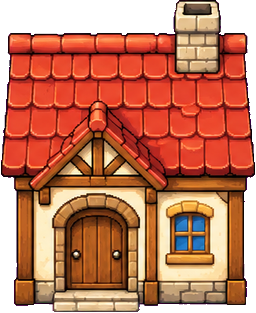
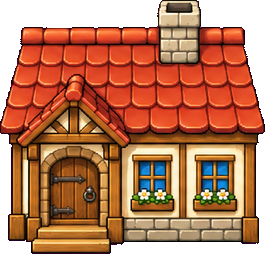
1.36: the new house outside in three steps (porch door on the left, forward block, extension wing, upper storey with balcony), door on the old path, door outline refitted

diff --git a/test_136_house.js b/test_136_house.js
@@ -1,0 +1,20 @@
+// test_136_house.js — รุ่น 1.36: บ้านด้านนอกแบบใหม่ 3 ขั้น · ประตูตรงทางเดิน · แตะประตูเข้าบ้านได้ทุกขั้น · ไม่มีของทับบ้าน · PORT=... CHROME_EXE=...
+const p=require('/home/claude/.npm-global/lib/node_modules/@mermaid-js/mermaid-cli/node_modules/puppeteer');
+(async()=>{const b=await p.launch({executablePath:process.env.CHROME_EXE||'/home/claude/.cache/puppeteer/chrome/linux-131.0.6778.204/chrome-linux64/chrome',args:['--no-sandbox']});
+const pg=await b.newPage();await pg.setViewport({width:1100,height:620,isMobile:true,hasTouch:true,deviceScaleFactor:1});const errs=[];pg.on('pageerror',e=>errs.push(e.message));
+await pg.goto('http://localhost:'+(process.env.PORT||8775)+'/?gm',{waitUntil:'load'});await pg.evaluate(()=>localStorage.clear());await pg.reload({waitUntil:'load'});await new Promise(r=>setTimeout(r,6000));
+const out={};
+out.setup=await pg.evaluate(async()=>{const sleep=ms=>new Promise(r=>setTimeout(r,ms));gmMakeSlot();const d=Store.all();S=d.slots[d.cur];startGame();await sleep(1500);document.querySelectorAll('#cr,#title,#picker').forEach(e=>e.classList.add('hide'));fpsChecks=6;GM.hour=10;window._clear=async()=>{try{closeModal()}catch(e){}try{for(let i=0;i<12&&DLG;i++){if(typeof dlgNext==='function')dlgNext();else DLG=null;await sleep(130)}}catch(e){}DLG=null;PAUSE=false;HOLD=null};return{version:VERSION}});
+for(const lv of [1,2,3]){
+ const r=await pg.evaluate(async lv=>{const sleep=ms=>new Promise(r=>setTimeout(r,ms));const h=HOME.get();h.lv=lv;if(h.house)h.house.lv=lv;HOME.put(h);delete CACHE.farm;goMap('farm');await sleep(1300);await window._clear();document.querySelectorAll('#hud,#dlg,#act').forEach(e=>e.classList.add('hide'));
+  const ho=M.objs.find(q=>q.farmHouse),[x0,y0,x1]=G9.houseBox[ho.tier];const o={levelAsked:lv,tier:ho.tier,picture:ho.img,size:[ho.sw,ho.sh],left:Math.round(ho.x-ho.sw/2),right:Math.round(ho.x+ho.sw/2),foot:Math.round(ho.y)};
+  o.doorOnPath=Math.round(G9.door[0]*T);   // the door leaf centre is at this x by construction; check the picture's steps really sit there
+  const im=IMG[ho.img],c=document.createElement('canvas');c.width=im.width;c.height=im.height;const g=c.getContext('2d');g.drawImage(im,0,0);const row=g.getImageData(0,im.height-4,im.width,1).data;let a=-1,bb=-1;for(let x=0;x<im.width;x++)if(row[x*4+3]>0){if(a<0)a=x;bb=x}o.stepsMiddleAtX=Math.round(ho.x-ho.sw/2+(a+bb)/2);
+  // nothing that stands in the scene may have its foot inside the house box
+  o.thingsInsideHouse=M.objs.filter(q=>q.g9b&&q.x>x0*T+6&&q.x<x1*T-6&&q.y>y0*T&&q.y<G9.houseBase*T-4).length;
+  const sh=M.objs[G9B.tapInst.shed];o.gapToShedPx=Math.round((sh.x-sh.sw/2)-(ho.x+ho.sw/2));
+  P.x=G9.door[0]*T+70;P.y=(G9.door[1]+3.4)*T;P.path=null;P.act=null;await sleep(1400);const cv=document.getElementById('c'),rc=cv.getBoundingClientRect(),dpr=devicePixelRatio||1;o.tap=[((G9.door[0]*T)-camX)*SC/dpr+rc.left,((G9.houseBase*T-60)-camY)*SC/dpr+rc.top];return o},lv);
+ await pg.screenshot({path:'hs_'+lv+'.png'});
+ await pg.touchscreen.tap(r.tap[0],r.tap[1]);let inside=null;for(let k=0;k<28&&!inside;k++){await new Promise(q=>setTimeout(q,250));inside=await pg.evaluate(()=>(M.kind==='room'||/^room/.test(M.id))?M.id:null)}
+ r.tapDoorEnters=inside;delete r.tap;out['level'+lv]=r}
+console.log(JSON.stringify(out));console.log('errors',errs.length,errs.slice(0,4));await b.close()})();

diff --git a/sw.js b/sw.js
@@ -1,5 +1,5 @@
-// Lantern Academy 1.35 · Leah-PP service worker: network first (always newest when online), cache as backup when offline.
-const CACHE='lantern-v112';
+// Lantern Academy 1.36 · Leah-PP service worker: network first (always newest when online), cache as backup when offline.
+const CACHE='lantern-v113';
 const FILES=['./','index.html','manifest.json','questions-index.json','q-math-6.json','q-math-7.json','q-math-8.json','q-english-6.json','q-english-7.json','q-english-8.json','q-thai-6.json','q-thai-7.json','q-thai-8.json','q-chinese-6.json','q-chinese-7.json','q-chinese-8.json','q-general-6.json','q-general-7.json','q-general-8.json','leah-walk.png','leah-idle.png','dad-idle.png','mom-idle.png','peb-idle.png','nuan-idle.png','cave-floor.jpg','cave-wall.jpg','tiles-cave.png','tiles-village.png','tiles-hedge.png','obj-fountain.png','props-village.png','props-cave.png','props-dungeon.png','buildings-village.png','tiles-house.png','furniture.png','play.html','kid-curly2-idle.png','kid-curly2-stand.png','kid-curly2-walk.png','play.webmanifest','firebase-config.js','tiles-cliff.png','tiles-water.png','tiles-cobble.png','props-mountain.png','props-farm.png','obj-lightstone.png','obj-lightstone-plaza.png','obj-cave-crystal.png','obj-rockfall.png','obj-bridge-rope.png','obj-bridge-stone.png','obj-pier.png','obj-fountain-big.png','obj-fountain-old.png','capital-greybox.png','bld-academy.png','bld-lanna-house.png','bld-lanna-house2.png','bld-market-stall.png','obj-lantern-shrine.png','obj-bridge-arch.png','obj-stairs-stone.png','obj-pier-teak.png','kid-braids-idle.png','kid-braids-stand.png','kid-braids-walk.png','kid-ponytail-idle.png','kid-ponytail-stand.png','kid-ponytail-walk.png','kid-bob-idle.png','kid-bob-stand.png','kid-bob-walk.png','kid-curly-idle.png','kid-curly-stand.png','kid-curly-walk.png','kid-blond-idle.png','kid-blond-stand.png','kid-blond-walk.png','kid-spiky-idle.png','kid-spiky-stand.png','kid-spiky-walk.png','icon-192.png','icon-512.png','icon-maskable-512.png','apple-touch-icon.png','favicon-32.png','logo.png','title-art.jpg','farm-greybox.png','map-capital-a.jpg','obj-fountain-capa.png','map-capital-royal.jpg','obj-statue-capital.png','signs-capital.png','map-royal-plaza.jpg','signs-royal-plaza.png','map-cave-mouth.jpg','hunt-SW.jpg','hunt-NW.jpg','hunt-NE.jpg','hunt-SE.jpg','mon-slime.png','mon-bat.png','mon-mushbug.png','mon-golem.png','icons-drops.png','card-front.png','card-back.png','kit-town-buildings.png','kit-town-nature.png','kit-town.png','kit-town.json','tiles-town-meadow.png','tiles-town-water.png','portraits-town.png','crystal-paplern.png','stamps.png','farm-house-1.png','farm-house-2.png','farm-house-3.png','map-G9-home-farm.jpg','map-H9-village.jpg','objects-1.png','map-G9b-ground.jpg','g9b-sprites.png','g9b-plants.png','g9b-scene.json','farm-art.png','farm-art2.png','robot-walk.png','ui-icons.png','bgm-farm.mp3','bgm-farm-night.mp3'];
 self.addEventListener('install',e=>{self.skipWaiting();e.waitUntil(caches.open(CACHE).then(c=>Promise.all(FILES.map(f=>c.add(f).catch(()=>null)))));self.skipWaiting()});
 self.addEventListener('activate',e=>{e.waitUntil(self.clients.claim());e.waitUntil(caches.keys().then(ks=>Promise.all(ks.filter(k=>k!==CACHE).map(k=>caches.delete(k)))));self.clients.claim()});

diff --git a/index.html b/index.html
@@ -121,7 +121,7 @@ window.DEFER_Q=[];window.DEFER_ON=true;window.DEFER_DONE=new Set();
 
 // ===== Lantern Academy (LA) · index.html · formerly "Leah พาเพลิน 2D" =====
 // Files are loaded by name. If a file is missing the game draws a simple stand-in and keeps running.
-const VERSION='Lantern Academy 1.35';
+const VERSION='Lantern Academy 1.36';
 const T=32;
 const FILES={laLogo:'logo.png',ground:'tiles-village.png',cliff:'tiles-cliff.png',water:'tiles-water.png',cobble:'tiles-cobble.png',cave:'tiles-cave.png',
   props:'props-village.png',mprops:'props-mountain.png',cprops:'props-cave.png',dprops:'props-dungeon.png',farm:'props-farm.png',
@@ -3728,7 +3728,7 @@ function g9bSpots(tm){if(!P)return;if(!M._exitIn){M._exitIn=1;for(const e of M.e
   if(M.fishSpot&&!(FISHING&&FISHING.on)){const x=M.fishSpot.x-camX,y=M.fishSpot.y-camY;spot(x,y,20);g9bArrowDown(x,Math.round(y-40+Math.sin(tm*2.2)*3))}
   if(!P.sit)for(const q of g9bSeats())if(Math.hypot(q.x-P.x,q.by-P.y)<150)spot(q.x-camX,q.by+3-camY,11);
   ctx.restore()}
-const G9DOOR={hw:30,b:18,spring:75,t:101};   // the door leaf on the house pictures, measured: half width, bottom, where the arch begins and its top, in px above the foot of the house
+const G9DOOR={hw:25,b:34,spring:80,t:98};   // the door leaf on the house pictures, measured: half width, bottom, where the arch begins and its top, in px above the foot of the house
 {const cv=document.getElementById('c');if(cv)cv.addEventListener('pointerup',ev=>{try{if(!M||!M.g9b||PAUSE||DLG)return;const r=cv.getBoundingClientRect(),dpr=devicePixelRatio||1,wx=(ev.clientX-r.left)*dpr/SC+camX,wy=(ev.clientY-r.top)*dpr/SC+camY;
     const dx=G9.door[0]*T,by=G9.houseBase*T;
     if(Math.abs(wx-dx)<G9DOOR.hw+4&&wy>by-G9DOOR.t-4&&wy<by-G9DOOR.b+10){ev.stopImmediatePropagation();window._farmTapT=performance.now();const e=M.exits.find(q=>q.id==='home');if(e)g9WalkThen(e.x,e.y+4,()=>{try{useExit(e)}catch(x){}});return}

diff --git a/compose_g9_full.py b/compose_g9_full.py
@@ -161,7 +161,7 @@ add('pillar', 47.0, 14.2); add('pillar', 47.0, 18.0)                 # one each 
 # ---------- the front garden (owner, 4 Oct: the things round the house lay scattered and it did not feel cosy) ----------
 # One idea per place: a low fence closes the garden toward the road and leaves the path open; the letter box and the lantern machine stand left and right of the
 # path mouth like gate posts; flowers line the path and the fence; blooming bushes sit against the house. The work things (crate, robot) stay by the shed.
-add('mailbox', DX - 1.2, 15.15); add('bushBloom', DX - 2.95, 10.6, tone='mid'); add('bushBloom', DX + 2.35, 10.55, tone='mid', flip=True); add('bushLow', DX + 3.75, 10.6, tone='mid')
+add('mailbox', DX - 1.2, 15.15); add('bushBloom', DX - 2.3, 10.6, tone='mid'); add('bushBloom', DX + 2.35, 10.55, tone='mid', flip=True); add('bushLow', DX + 3.75, 10.6, tone='mid')
 for _i, _y in enumerate((11.95, 12.8, 13.65, 14.5)):
     for _sd in (-1, 1): add(('flowerW', 'flowerY', 'flowerR')[(_i + (_sd > 0)) % 3], DX + _sd * 1.08, _y + (0.12 if _sd > 0 else 0), flip=_sd > 0)
 for _k, _x in enumerate(list(np.arange(13.5, 17.3, 0.62)) + list(np.arange(22.5, 26.3, 0.62))): add(('flowerY', 'flowerW', 'flowerR', 'flowerW')[_k % 4], float(_x), 14.95 + 0.06 * (_k % 2), flip=_k % 2 == 0)

diff --git a/build_g9_game.py b/build_g9_game.py
@@ -126,7 +126,7 @@ find = lambda name: [i for i in inst if i['n'] == name]
 cxy = lambda i: (i['x'] + i['w'] / 2, i['by'])
 DX, HB = sc['door_x'], sc['house_base']; hb_t = HB / T
 P = {'w': GW, 'h': GH, 'spawn': [GW - 3.5, round(ey, 2)], 'exitE': [GW - 0.4, round(ey, 2)], 'door': [round(DX / T, 2), round(hb_t + 0.2, 2)], 'houseBase': round(hb_t, 2),
-     'houseBox': {k: [round((DX - off) / T, 2), round(hb_t - 313 / T, 2), round((DX - off + wd) / T, 2)] for k, (off, wd) in {'1': (97.5, 256), '2': (88.5, 375), '3': (86.5, 427)}.items()}}
+     'houseBox': {k: [round((DX - off) / T, 2), round(hb_t - ht / T, 2), round((DX - off + wd) / T, 2)] for k, (off, wd, ht) in {'1': (75.5, 265, 254), '2': (76, 388, 254), '3': (65.5, 394, 331)}.items()}}   # the new houses (4 Oct): middle of the door leaf from the left edge, width, height of each picture
 mb = find('mailbox')[0]; P['mailbox'] = [round(cxy(mb)[0] / T, 2), round(cxy(mb)[1] / T, 2)]
 sh = find('shed')[0]; P['shed'] = [round(cxy(sh)[0] / T, 2), round((sh['by'] + 10) / T, 2)]
 cr = find('crate')[0]; P['crate'] = [round(cxy(cr)[0] / T, 2), round(cr['by'] / T, 2)]

diff --git a/HANDOFF_S13.md b/HANDOFF_S13.md
@@ -1,10 +1,11 @@
-# HANDOFF S13 — Lantern Academy (4 ต.ค. 2569 · เกมรุ่น 1.35)
+# HANDOFF S13 — Lantern Academy (4 ต.ค. 2569 · เกมรุ่น 1.36)
 
 อ่านต่อจาก `HANDOFF_S12.md` · ลำดับความสำคัญเอกสาร: `MAP_PIPELINE.md` > ไฟล์นี้ > `PHASE1_PLAN.md` > `MAP_SPEC_G9.md` > `MAP_SPEC_H9.md` > `STORY.md`
 
 ## สถานะ
 - เกม: https://phoneyjung.github.io/Leah-PP/ · โหมด GM: `?gm` · repo: https://github.com/phoneyjung/Leah-PP · อัปไฟล์: https://github.com/phoneyjung/Leah-PP/upload/main
 - **พื้นใหม่ไม่มีดอกไม้ (อยู่ในรุ่น 1.17 ที่อัป 4 ต.ค.):** เจ้าของส่งภาพ 5 ภาพ เลือก 4 (`art-G9b-ground-*.png`) · หญ้าเรียบ · ดอกไม้เป็นชิ้นแยก 168 ดอก 60 กลุ่ม วางตามกติกา (ใกล้ต้นไม้ พุ่ม รั้ว เป็นหลัก) · กอหญ้าใช้สีตามสนามหญ้าอัตโนมัติ · แปลงดินของเราวางทับแปลงที่ AI วาด (ของ AI มีรอยเส้นที่ขอบล่าง) · ภาพพื้นของเกมเหลือ 713 KB (เดิม 973)
+- **รุ่น 1.36 (บ้านด้านนอกแบบใหม่ 3 ขั้น เข้าเกมแล้ว):** เจ้าของส่ง 5 แผ่น เลือกแผ่นที่ตรงภาพนำที่สุดและบ้าน 3 ขั้นเป็นหลังเดียวกันชัด (`art-house-exterior.png`) → ตัดและย่อ 0.73 เป็น `farm-house-1.png` 265×254 · `farm-house-2.png` 388×254 · `farm-house-3.png` 394×331 (ชื่อไฟล์เดิม) · กลางบานประตูอยู่ที่ 75.5 / 76 / 65.5 px จากขอบซ้าย (ตั้งใน `build_g9_game.py`) → ประตูตรงปลายทางเดินเดิม x=780 ทุกขั้น · บ้านซ้ายสุด 705/704/715 ขวาสุด 970/1092/1109 · ห่างโรงเก็บของ 157/35/18 px · `G9DOOR={hw:25,b:34,spring:80,t:98}` · พุ่มดอกซ้ายขยับชิดเสาระเบียง · ข้อจำกัด: บานประตูกว้าง 47 สูง 63 px เล็กกว่าบ้านเดิม (57×82) ถ้าจะใหญ่กว่านี้ต้องย้ายโรงเก็บของ · ชุดทดสอบ `test_136_house.js` (3 ขั้น แตะประตูเข้าบ้านได้ทุกขั้น) · **ฉากในบ้านยังเป็นแบบเก่า** รอทำตามแปลนร่าง 3
 - **รุ่น 1.35 (หุ่นช่วยงานจาก PixelLab เข้าเกมแล้ว):** เจ้าของส่ง `art-robot-pixellab.zip` (ท่ายืน 8 ทิศ 64×64 + ท่าเดิน 6 เฟรม 8 ทิศ บนผืน 96×96 · ตะวันออกเฉียงใต้มี 2 ชุด ใช้ชุด b2cef5ee) → `robot-walk.png` 448×512 (7 คอลัมน์ × 8 แถว ช่อง 64 · แถวตามลำดับ `rowFor`: S SE E NE N NW W SW · คอลัมน์ 0 = ยืน 1–6 = เดิน · เฟรมเดินครอป (16,16,80,80) จากผืน 96) · `g9bRobot8`: หันตามทิศที่เดินจริง เดิน 9 เฟรม/วินาที หยุดแล้วยืน · ไฟล์หาย → ภาพนิ่ง 4 มุมของ 1.23 · **ข้อบกพร่องของชุดภาพ:** ท่าเดินตะวันออกเฉียงเหนือเฟรม 3–6 ผิด (หัวด้านหลังกลายเป็นมีหน้า บัวรดน้ำย้ายที่) → ใช้ท่าเดินตะวันตกเฉียงเหนือกลับด้านแทนชั่วคราว (ที่เดียวที่มีการกลับด้าน แสงจึงผิดข้างในทิศนี้) ควรเจนท่าเดินทิศนี้ใหม่ 1 generation · ชุดทดสอบ `test_135_robot.js` · **แผนที่โลก 5 ภาพที่เจ้าของส่งมาพร้อมกัน:** ภาพวาดโลกสามดินแดน (แสง · ม่านม่วง · มืด) ตรงกับ world-atlas (แสง 157 บล็อก ลึกลับ 57 มืด 107 · คอลัมน์ C–T) ยังไม่ได้ใช้ รอเจ้าของบอกว่าจะใช้ทำอะไร ผมแนะนำภาพ `แผนที่โลกแฟนตาซีแห่งแสงและเงา` (คมที่สุด)
 - **บ้านด้านนอกแบบใหม่: ส่งภาพนำ + พรอมป์แล้ว รอภาพ (4 ต.ค.)** `house_exterior_guide.py` วาดภาพนำ 1536×1024 พื้นชมพู บ้าน 3 ขั้นเรียงซ้ายไปขวา (`house-exterior-guide.png` · ตำแหน่งกล่องใน `house_exterior_guide.json`) อ่านจากแปลน: ระเบียงเว้ามุมซ้ายมีประตูบ้าน เสา 2 ต้น บันได 2 ขั้น · ส่วนขวายื่นออกมา มีหน้าต่าง 2 บาน · ขั้น 2 ปีกต่อเติมขวาเตี้ยกว่า หลังคาแยก หน้าต่างกลม 2 บาน ยื่นหน้า 18 px · ขั้น 3 ชั้นสองบนตัวบ้านเดิมเท่านั้น ระเบียงชั้นบนเหนือระเบียงหน้าบ้าน · 1 ช่องแปลน = 13.5 px ในภาพนำ ผนังสูง 120 ผนังระเบียงอยู่ลึกขึ้น 22 · **ระเบียงวาดกว้าง 10.5 ช่อง ไม่ใช่ 7 ตามแปลน** เพื่อให้ประตูกว้างพอ (5.2 ช่อง = 51 px ในเกม) · แผนขนาดในเกม: ย่อ 0.73 → ขั้น 1 กว้าง 256 px (เท่าเดิม) ขั้น 2–3 กว้าง 365 px · ประตูอยู่ที่ 52 px จากขอบซ้าย → บ้านซ้ายสุด ≈ x 726 ขวาสุดขั้น 2–3 ≈ 1090 (โรงเก็บของเริ่ม 1130) · งานที่ตามมาเมื่อได้ภาพ: ตัด 3 หลัง · ตั้ง `houseBox` ใหม่ · ย้ายพุ่มไม้ โคม ป้าย ที่เคยวางตามบ้านเดิม · `G9DOOR` ใหม่ · ทดสอบเข้าออกบ้าน
 - **แปลนบ้านร่างที่ 3 ผ่านแล้ว (เจ้าของ 4 ต.ค.: "ok ละ")** และเจ้าของสั่งเพิ่ม: **ต้องออกแบบตัวบ้านด้านนอกใหม่ให้รับกับแปลนภายใน** (รูปตัว L มีระเบียงหน้าบ้านมุมซ้ายล่าง · ขั้น 2 มีปีกต่อเติมทางขวา · ขั้น 3 สองชั้นมีระเบียงชั้นบน) ยังไม่ได้เริ่ม
